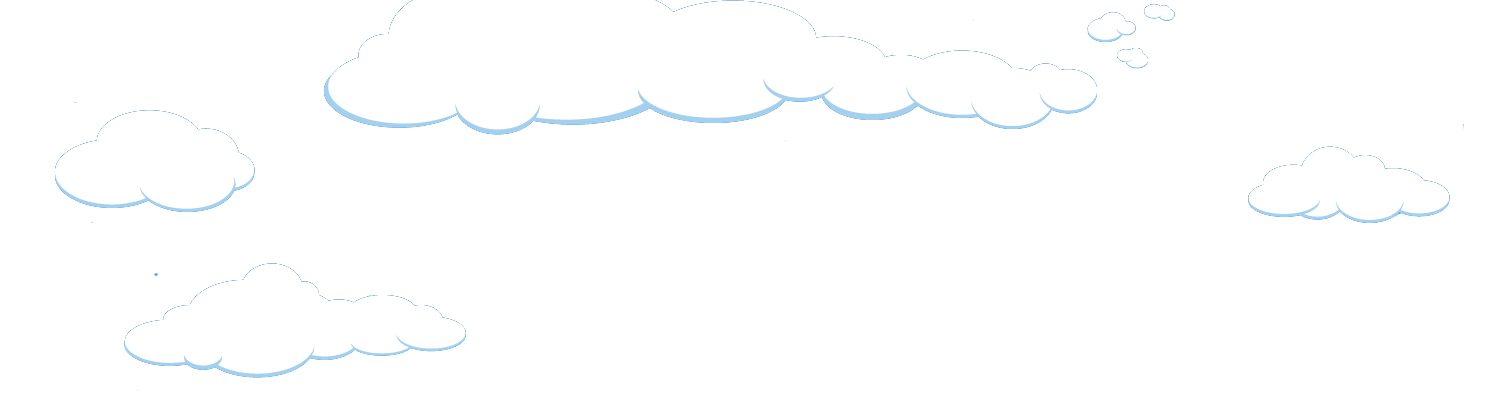
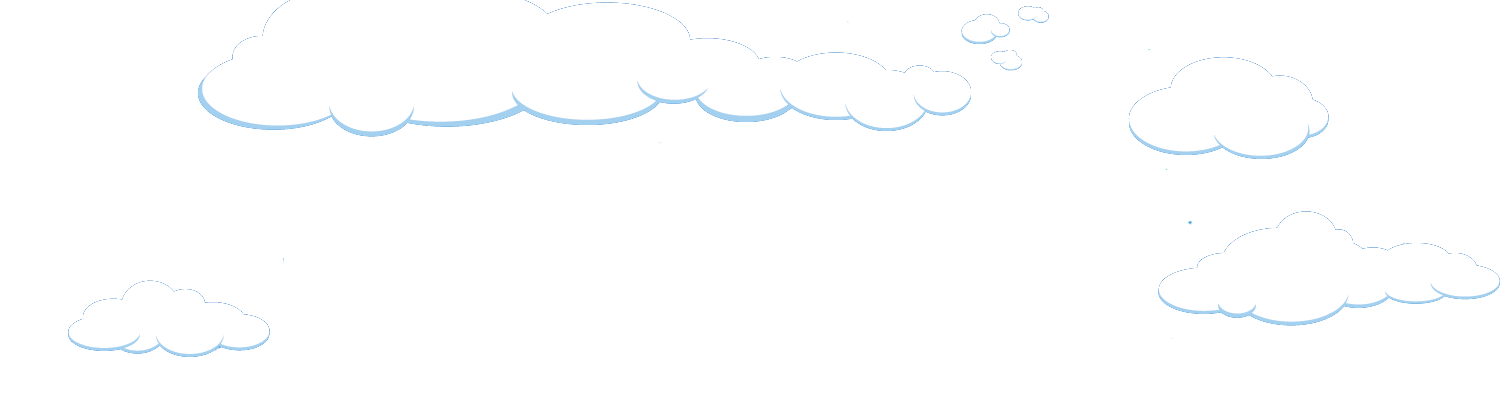
header

diff --git a/app/assets/stylesheets/app.css.sass b/app/assets/stylesheets/app.css.sass
@@ -2,10 +2,8 @@ body
   font-family: verdana, sans-serif
   font-size: 15px
   line-height: 1.5
-  
 #clouds  
-  background: transparent url(/assets/fog-header.png) left top repeat-x
-
+  background: url(/assets/fog-header.png) center top repeat-x
 #content-wrapper  
   background: #f1fbff url(/assets/bg.png) center bottom repeat-x
   @include gradient(#1d91d0, lighten(#1d91d0, 35%), $start: 15%, $url: '/assets/bg.png', $position: 'bottom repeat-x')
